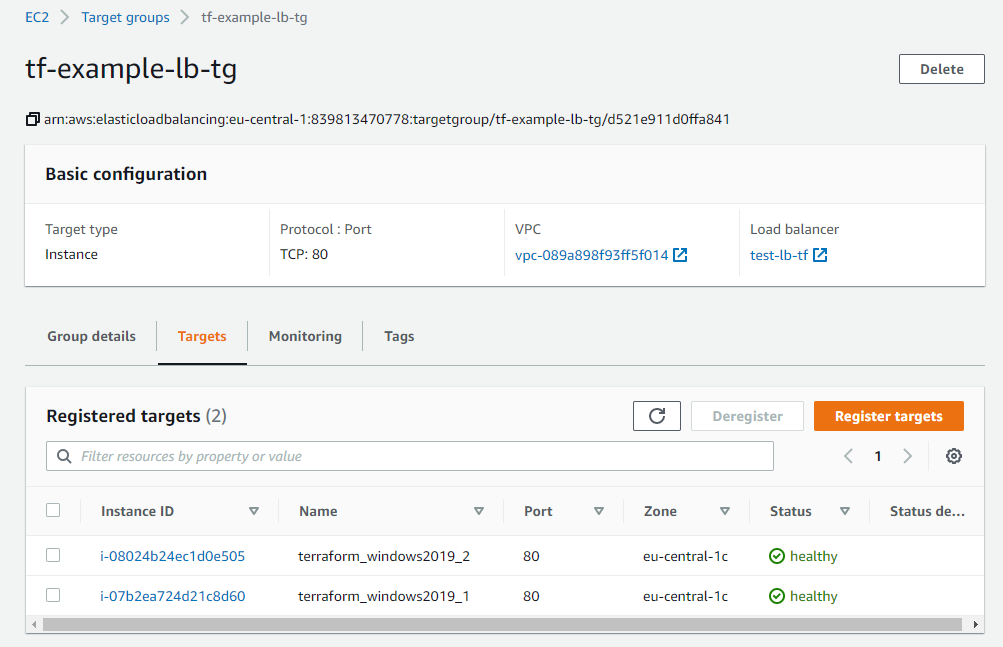
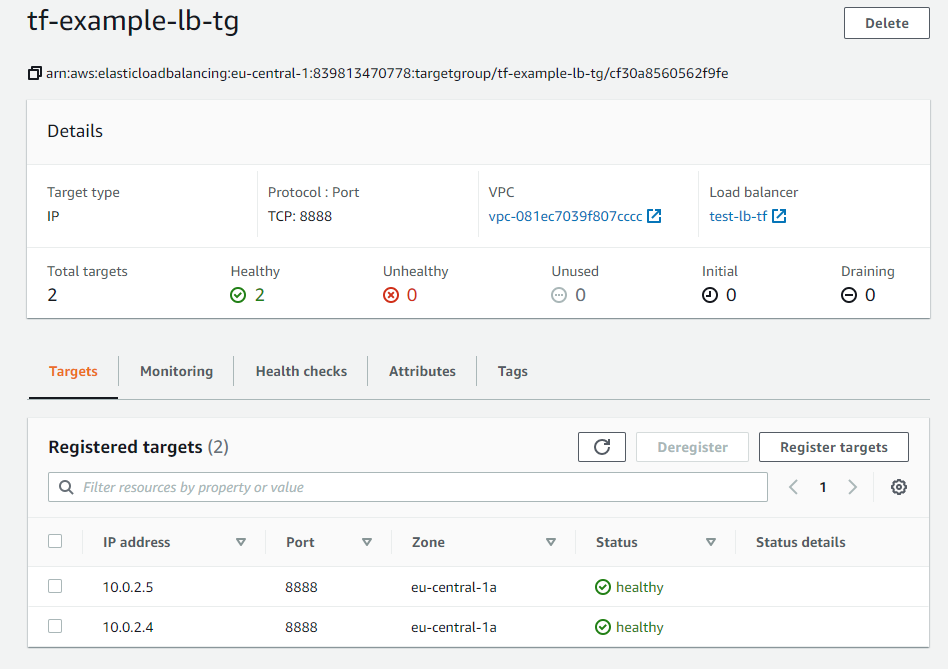
final version

diff --git a/README.md b/README.md
@@ -10,10 +10,6 @@ Terraform file you can find above. The is the beginning:
 
 ![Screenshot_2](https://user-images.githubusercontent.com/75696130/113060638-9897e200-91b9-11eb-95bf-94ca47987dcc.png)
 
-Targets are unhealthy yet:
-
-![Screenshot_3](https://user-images.githubusercontent.com/75696130/113060838-e1e83180-91b9-11eb-839f-10fbde9a1c90.png)
-
 After that, I run my mega script: .\site_creating.ps1 (it will be above in the folder, so you can see it). there are mistakes because I delete folders that don't exist yet. It doesn't cause any issues.
 
 ![Screenshot_4](https://user-images.githubusercontent.com/75696130/113061280-76529400-91ba-11eb-8f51-d29d01555446.png)
@@ -30,21 +26,32 @@ Finally, the script has done its job:
 
 ![Screenshot_5](https://user-images.githubusercontent.com/75696130/113061774-422ba300-91bb-11eb-9782-30b7b37eefd6.png)
 
-And we've got our WebSites:
+And we've got our WebSite:
 
-![Screenshot_6](https://user-images.githubusercontent.com/75696130/113061876-6d15f700-91bb-11eb-8f25-0e363ffae142.png)
+![Screenshot_6](https://user-images.githubusercontent.com/75696130/113304323-985b2c00-930a-11eb-9b89-216a4a40ecef.png)
+
 
 Turning back to the load balancer and targets, they are healthy now:
 
-![Screenshot_7](https://user-images.githubusercontent.com/75696130/113061945-92a30080-91bb-11eb-88b7-db6f5bc6f142.png)
+![Screenshot_7](https://user-images.githubusercontent.com/75696130/113304479-be80cc00-930a-11eb-9eb9-e65825c80910.png)
 
 Configuration of instance:
 
-![Screenshot_8](https://user-images.githubusercontent.com/75696130/113062054-cbdb7080-91bb-11eb-8feb-40c5f8a25741.png)
+![Screenshot_8](https://user-images.githubusercontent.com/75696130/113304659-ea03b680-930a-11eb-9939-72901c2a8fdf.png)
+
 
 The names of the script and tf files are different because I saved them to push to git. The original are: example.tf and site_creating.ps1.
 I'll leave instances working to let you see them. I didn't add the task definition here. Tell me please if needed.
 ---------------------------------------------------------------------------------------------------------------------------------
 Thank you for your attention)
-Instance 1    http://18.197.210.234:8888/
-Instance 2    http://3.121.225.193:8888/
+My network load balancer:   
+
+The link:
+http://test-lb-tf-1677be3945597eae.elb.eu-central-1.amazonaws.com:8888/
+
+
+![Screenshot_9](https://user-images.githubusercontent.com/75696130/113305143-68605880-930b-11eb-9617-0f4206c26bbd.png)
+
+Instance 1    http://3.65.227.85:8888/
+
+Instance 2    http://18.185.79.201:8888/
